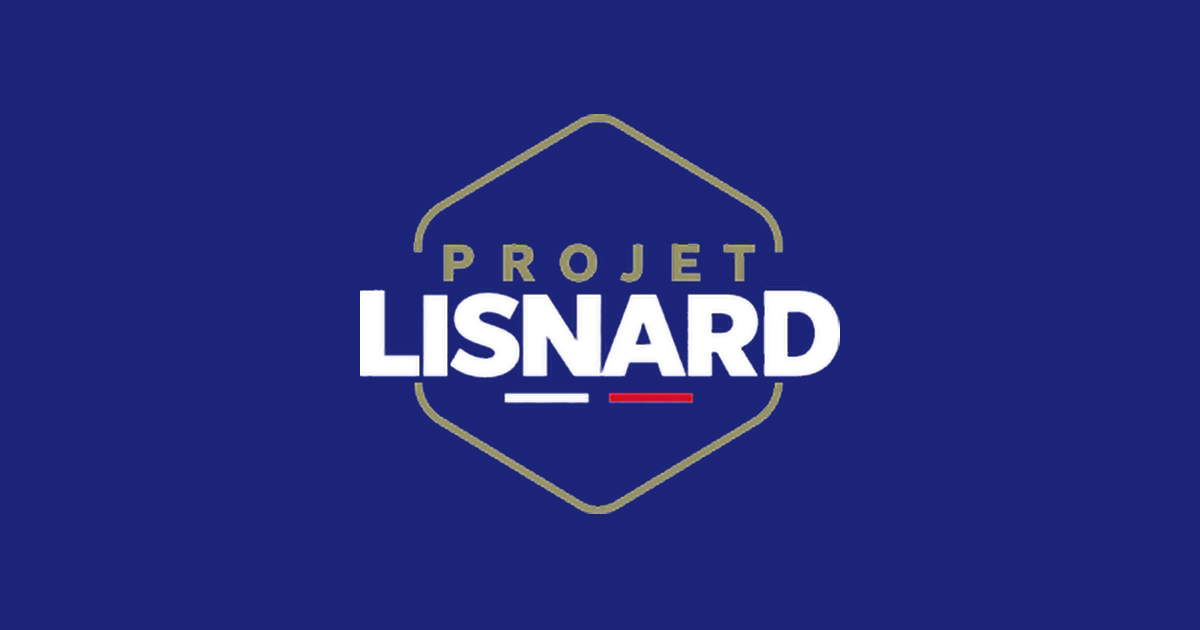
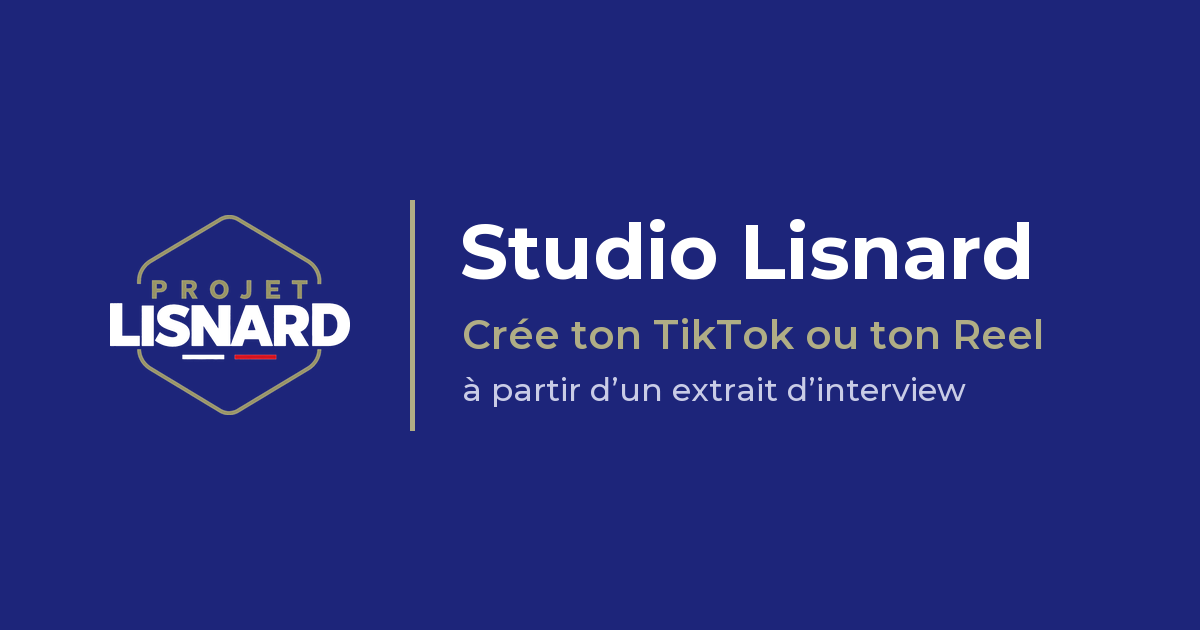
fix: sharper share image and alt text for link previews

diff --git a/public/index.html b/public/index.html
@@ -17,10 +17,12 @@
   <meta property="og:image" content="https://studio.projetlisnard.fr/brand/og-image.png">
   <meta property="og:image:width" content="1200">
   <meta property="og:image:height" content="630">
+  <meta property="og:image:alt" content="Studio Lisnard : crée ton TikTok ou ton Reel à partir d’un extrait d’interview">
   <meta name="twitter:card" content="summary_large_image">
   <meta name="twitter:title" content="Studio Lisnard – Crée ton TikTok">
   <meta name="twitter:description" content="Crée un TikTok ou un Reel à partir d'un extrait d'interview de David Lisnard : sous-titres, musique, téléchargement.">
   <meta name="twitter:image" content="https://studio.projetlisnard.fr/brand/og-image.png">
+  <meta name="twitter:image:alt" content="Studio Lisnard : crée ton TikTok ou ton Reel à partir d’un extrait d’interview">
   <script type="application/ld+json">{"@context":"https://schema.org","@type":"WebApplication","name":"Studio Lisnard","url":"https://studio.projetlisnard.fr/","applicationCategory":"MultimediaApplication","operatingSystem":"Web","inLanguage":"fr-FR","description":"Crée un TikTok ou un Reel à partir d'un extrait d'interview de David Lisnard : sous-titres, musique, téléchargement.","offers":{"@type":"Offer","price":"0","priceCurrency":"EUR"}}</script>
   <link rel="preload" href="/fonts/montserrat-variable-latin.woff2" as="font" type="font/woff2" crossorigin>
   <link rel="preload" href="/fonts/fraunces-normal-latin.woff2" as="font" type="font/woff2" crossorigin>

diff --git a/public/mentions-legales/index.html b/public/mentions-legales/index.html
@@ -17,10 +17,12 @@
   <meta property="og:image" content="https://studio.projetlisnard.fr/brand/og-image.png">
   <meta property="og:image:width" content="1200">
   <meta property="og:image:height" content="630">
+  <meta property="og:image:alt" content="Studio Lisnard : crée ton TikTok ou ton Reel à partir d’un extrait d’interview">
   <meta name="twitter:card" content="summary_large_image">
   <meta name="twitter:title" content="Mentions légales – Studio Lisnard">
   <meta name="twitter:description" content="Mentions légales de Studio Lisnard : éditeur, hébergeur, données personnelles, propriété intellectuelle et contact.">
   <meta name="twitter:image" content="https://studio.projetlisnard.fr/brand/og-image.png">
+  <meta name="twitter:image:alt" content="Studio Lisnard : crée ton TikTok ou ton Reel à partir d’un extrait d’interview">
   <link rel="preload" href="/fonts/montserrat-variable-latin.woff2" as="font" type="font/woff2" crossorigin>
   <link rel="preload" href="/fonts/fraunces-normal-latin.woff2" as="font" type="font/woff2" crossorigin>
   <link rel="preload" href="/fonts/fraunces-italic-latin.woff2" as="font" type="font/woff2" crossorigin>

diff --git a/public/mur/index.html b/public/mur/index.html
@@ -17,10 +17,12 @@
   <meta property="og:image" content="https://studio.projetlisnard.fr/brand/og-image.png">
   <meta property="og:image:width" content="1200">
   <meta property="og:image:height" content="630">
+  <meta property="og:image:alt" content="Studio Lisnard : crée ton TikTok ou ton Reel à partir d’un extrait d’interview">
   <meta name="twitter:card" content="summary_large_image">
   <meta name="twitter:title" content="Le mur des clips – Studio Lisnard">
   <meta name="twitter:description" content="Les TikToks les plus vus, aimés et commentés avec le hashtag #projetlisnard, classés automatiquement.">
   <meta name="twitter:image" content="https://studio.projetlisnard.fr/brand/og-image.png">
+  <meta name="twitter:image:alt" content="Studio Lisnard : crée ton TikTok ou ton Reel à partir d’un extrait d’interview">
   <link rel="preload" href="/fonts/montserrat-variable-latin.woff2" as="font" type="font/woff2" crossorigin>
   <link rel="preload" href="/fonts/fraunces-normal-latin.woff2" as="font" type="font/woff2" crossorigin>
   <link rel="preload" href="/fonts/fraunces-italic-latin.woff2" as="font" type="font/woff2" crossorigin>

diff --git a/public/bibliotheque/index.html b/public/bibliotheque/index.html
@@ -17,10 +17,12 @@
   <meta property="og:image" content="https://studio.projetlisnard.fr/brand/og-image.png">
   <meta property="og:image:width" content="1200">
   <meta property="og:image:height" content="630">
+  <meta property="og:image:alt" content="Studio Lisnard : crée ton TikTok ou ton Reel à partir d’un extrait d’interview">
   <meta name="twitter:card" content="summary_large_image">
   <meta name="twitter:title" content="La bibliothèque des clips – Studio Lisnard">
   <meta name="twitter:description" content="Les clips créés dans le studio par la communauté : à télécharger, noter et réutiliser.">
   <meta name="twitter:image" content="https://studio.projetlisnard.fr/brand/og-image.png">
+  <meta name="twitter:image:alt" content="Studio Lisnard : crée ton TikTok ou ton Reel à partir d’un extrait d’interview">
   <link rel="preload" href="/fonts/montserrat-variable-latin.woff2" as="font" type="font/woff2" crossorigin>
   <link rel="preload" href="/fonts/fraunces-normal-latin.woff2" as="font" type="font/woff2" crossorigin>
   <link rel="preload" href="/fonts/fraunces-italic-latin.woff2" as="font" type="font/woff2" crossorigin>
